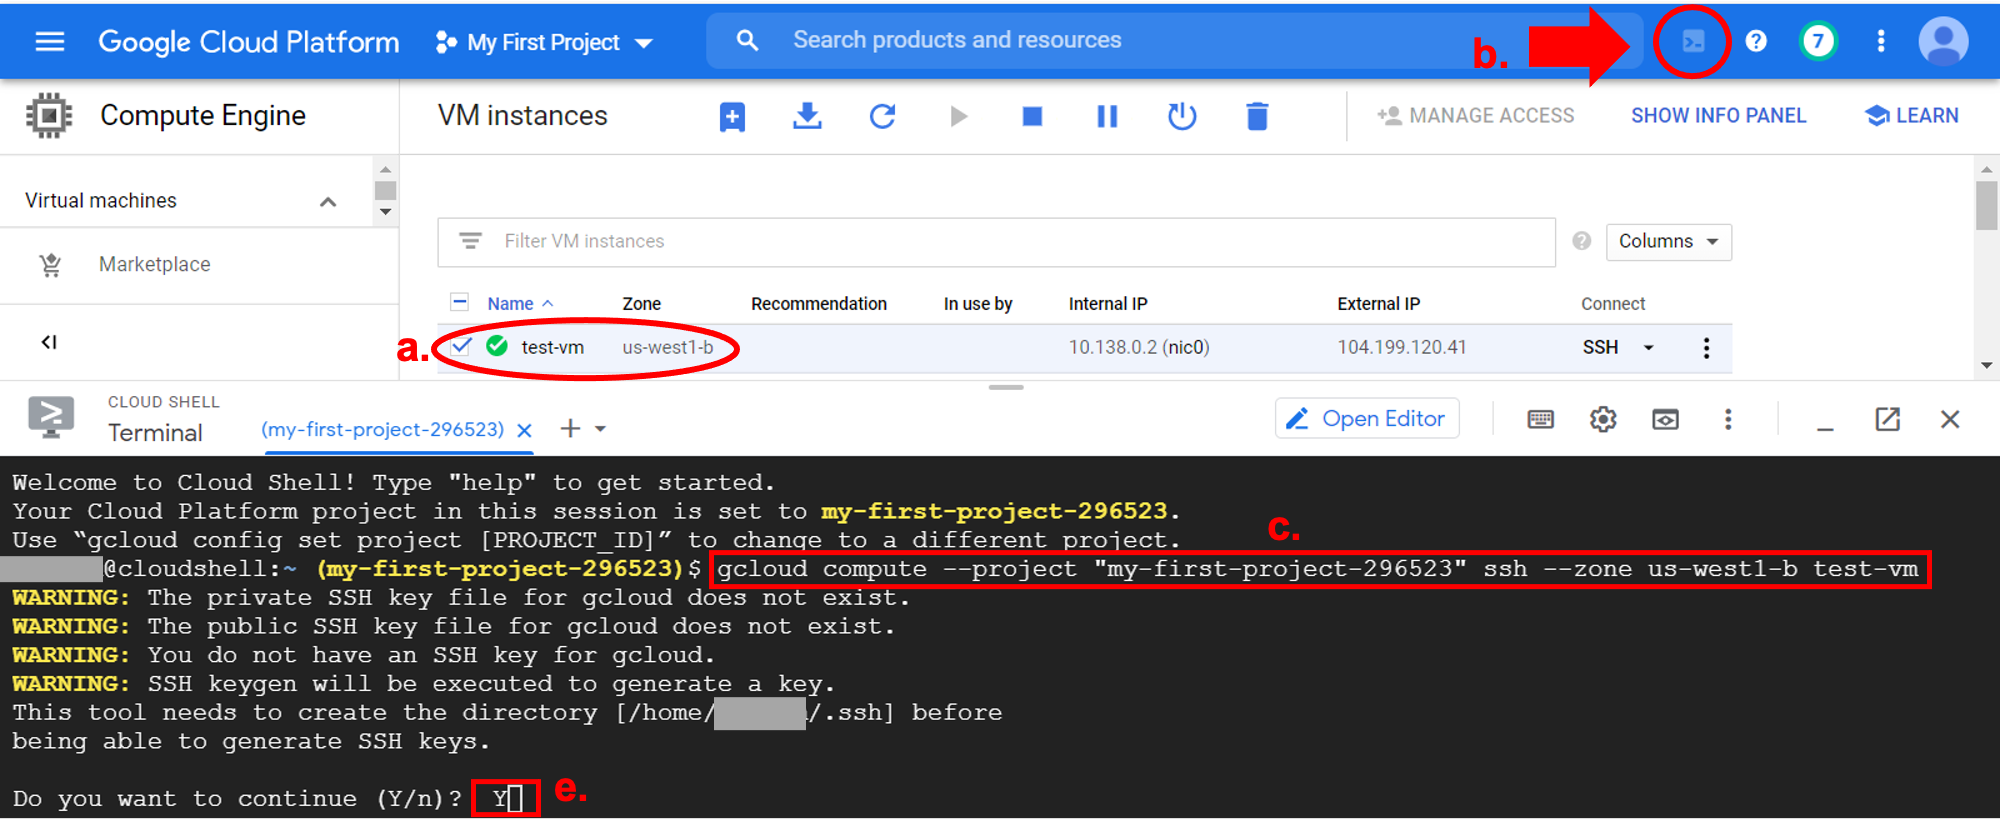
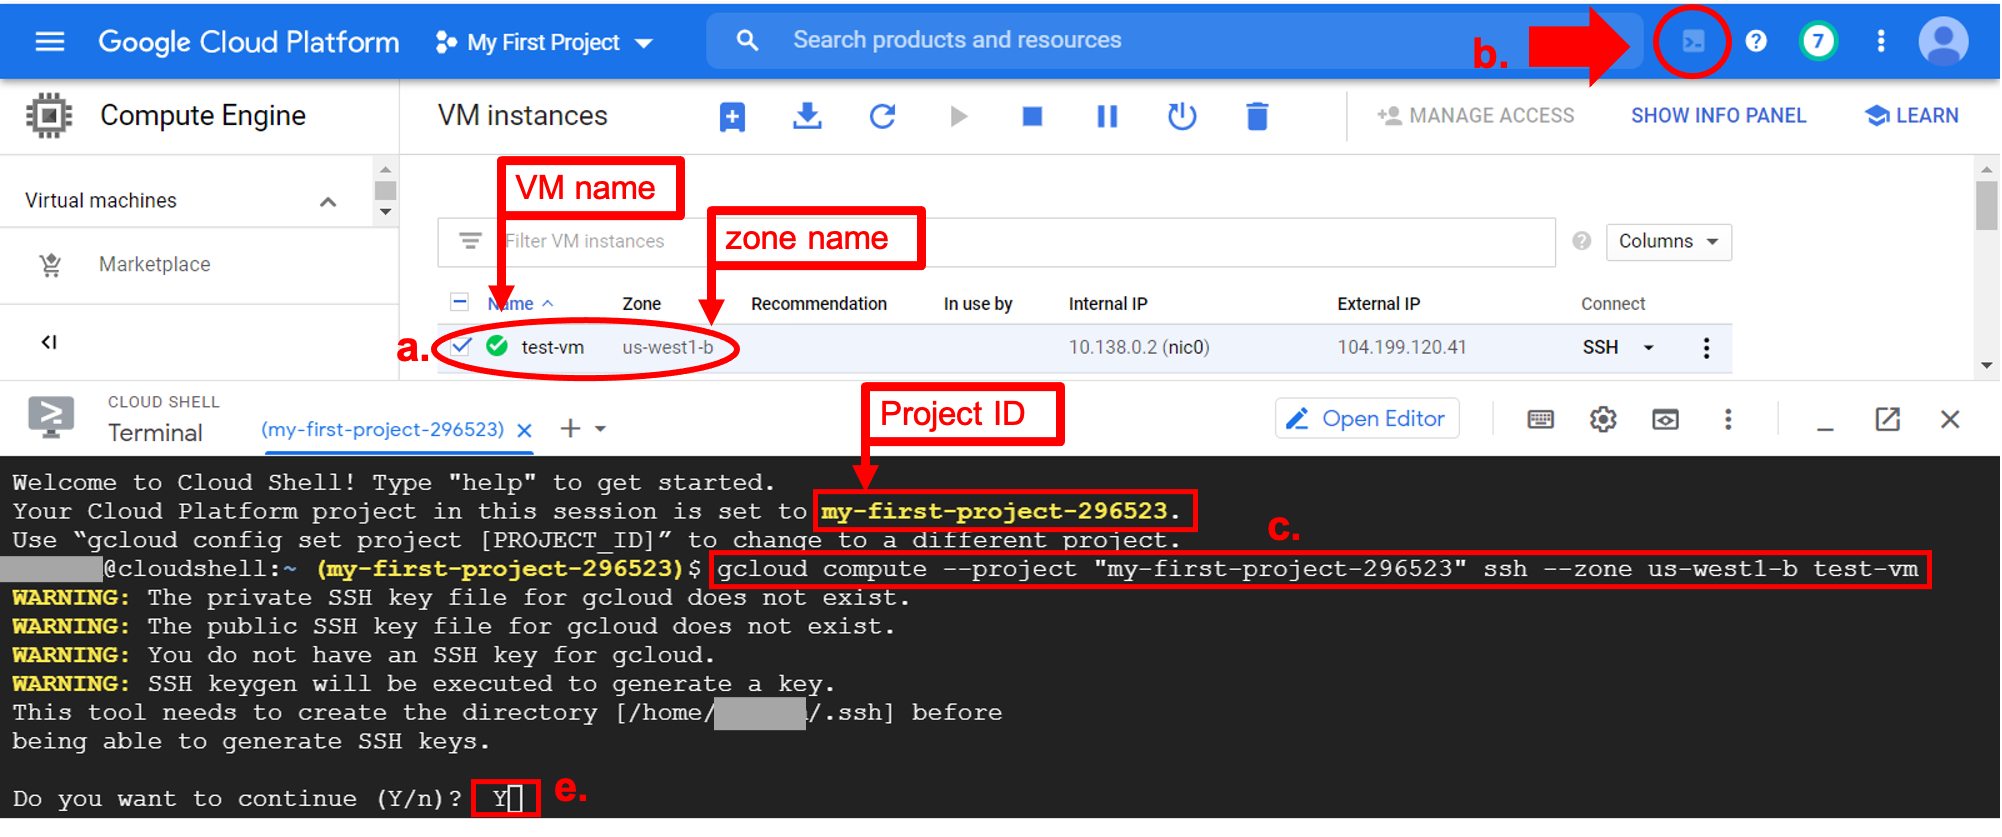
added vm controls about. edited google bucket command. more help on gcloud compute cmd

Changed region(s): [[0.4026, 0.4349, 0.5884, 0.6523], [0.2478, 0.1864, 0.4645, 0.3728]]

diff --git a/docs/Bioinformatics-Skills/Introduction-to-GCP/gcp2.md b/docs/Bioinformatics-Skills/Introduction-to-GCP/gcp2.md
@@ -12,7 +12,7 @@ In this section, we'll create a project, configure a GCP virtual machine (VM) in
 
 ![](./gcp_images/gcp_project2.png "Create Project button")
 
-- The new project is now listed in the table, along with a project ID. You'll need the project ID later to connect to a VM instance.
+- The new project is now listed in the table, along with a project ID. *You'll need the project ID later to connect to a VM instance.*
 
 ![](./gcp_images/gcp_projectid.png "Project ID")
 
@@ -28,13 +28,13 @@ In this section, we'll create a project, configure a GCP virtual machine (VM) in
 
 ![](./gcp_images/gcp_vmconfig1.png "VM configuration name and region")
 
-Names must be in lowercase letters or numbers. Use hyphens "-" instead of spaces. You'll need the VM name to connect to it.
+Names must be in lowercase letters or numbers. Use hyphens "-" instead of spaces. *You'll need the VM name to connect to it.*
 
 ### b. Choose a Region
 
 Several regions are available from the dropdown menu. In general, select the region closest to your physical geographic region.
 
-It is less important which zone you choose, and the interface automatically selects a zone based on the region you select. You'll need the zone name to connect to the VM. In this example, we selected the "us-west1 (Oregon)" region.
+It is less important which zone you choose, and the interface automatically selects a zone based on the region you select. *You'll need the zone name to connect to the VM.* In this example, we selected the "us-west1 (Oregon)" region.
 
 !!! note "Machine regions"
 
@@ -70,6 +70,38 @@ Check the box by "Allow HTTP traffic" under the Firewall configuration, which op
 
 When you're done configuring the VM, click "Create".
 
+The VM can be refreshed, start/resumed, stopped, suspended, reset, or deleted using the icons at the top of the page:
+
+![](./gcp_images/gcp_vm_runoptions.png "VM controls")
+
+=== "Refresh"
+
+    Refresh the instance. If your connection times out, there should be a "Reconnect" button in the Google Cloud Shell, otherwise you can try refreshing.
+
+=== "Reset"
+
+    "[Reset](https://cloud.google.com/compute/docs/instances/instance-life-cycle#resetting_an_instance) performs a hard reset on the instance, which wipes the memory contents of the machine and resets the virtual machine to its initial state."
+
+=== "Suspend"
+
+    [Suspending](https://cloud.google.com/compute/docs/instances/instance-life-cycle#suspending_an_instance) "the instance will preserve its running state, similar to closing a laptop. You'll be billed for storage of the suspended VM state and any persistent disks it uses."
+
+=== "Stop"
+
+    [Stopping](https://cloud.google.com/compute/docs/instances/instance-life-cycle#stopping_an_instance) the instance is similar to suspending it, but Google doesn't charge you for VM resources while it's stopped.
+
+=== "Start/Resume"
+
+    Start/resume a suspended or stopped instance to open it again.
+
+=== "Delete"
+
+    When you are completely finished working with the VM it can be deleted. This will remove all VM configurations and work you did in the VM.
+
+!!! tip
+
+    If you need to pause during this tutorial and want to save your VM instance and any work you did in the instance (e.g., files downloaded), **stop** the VM. You'll be able to start/resume the instance when you come back and all your work should still be there.
+
 ## Step 3: Connect to your VM
 
 ![](./gcp_images/gcp_vmGCS.png "VM connect with Google Cloud Shell")
@@ -86,11 +118,20 @@ The Google Cloud Shell command prompt format will show: `<username>@cloudshell:~
 
 ### c. Connect to VM
 
-Use the `gcloud compute` command to connect to your virtual machine (`gcloud` is a tool from the Google Cloud SDK toolkit). You'll need your project ID, zone, and instance name. In the example command below, the project ID is `"my-first-project-296523"`, the zone is `us-west1-b`, and the instance name is `test-vm`. The `ssh` flag indicates we are accessing the VM with ssh, which we'll set up below. Replace these values to run the command for your virtual machine:
+Use the `gcloud compute` command to connect to your virtual machine (`gcloud` is a tool from the Google Cloud SDK toolkit). You'll need your project ID, zone, and instance name. In the example command below, the project ID is `"my-first-project-296523"`, the zone is `us-west1-b`, and the instance name is `test-vm`. The `ssh` flag indicates we are accessing the VM with ssh, which we'll set up below. **Replace these values** to run the command for your virtual machine:
 
-```
-gcloud compute --project "my-first-project-296523" ssh --zone us-west1-b test-vm
-```
+=== "Input"
+
+    Usage:
+    ```
+    gcloud compute --project "<your project ID>" ssh --zone <your zone> <your VM name>
+    ```
+
+    Example:
+
+    ```
+    gcloud compute --project "my-first-project-296523" ssh --zone us-west1-b test-vm
+    ```
 
 ### d. Authorise Cloud Shell
 

diff --git a/docs/Bioinformatics-Skills/Introduction-to-GCP/gcp3.md b/docs/Bioinformatics-Skills/Introduction-to-GCP/gcp3.md
@@ -109,11 +109,20 @@ this configuration": enter ++2++ to "Log in with a new account"
 
 The `gcloud` configuration should now be complete. Run the following command to check:
 
-```
-gcloud config configurations list  
-```
+=== "Input"
 
-The output should list your GCP Google account email and project ID.
+    ```
+    gcloud config configurations list  
+    ```
+
+=== "Expected Output"
+
+    The output should list your GCP Google account email and project ID.
+
+    ```
+    NAME     IS_ACTIVE  ACCOUNT          PROJECT            COMPUTE_DEFAULT_ZONE  COMPUTE_DEFAULT_REGION
+    default  True       <your account email>  <your project name>
+    ```
 
 ## Step 6: Create Google Storage bucket
 
@@ -121,15 +130,51 @@ Files are stored in buckets in the Google Storage service. Buckets can be manage
 
 - Make a bucket by using the `gsutil mb` command. Google bucket paths always begin with "gs://". You must enter a unique name for your bucket (do not use spaces in the name).
 
-```
-gsutil mb gs://<your bucket name>
-```
+=== "Input"
+
+    Usage:
+    ```
+    gsutil mb gs://<your bucket name>
+    ```
+
+    Example:
+    ```
+    gsutil mb gs://forblast
+    ```
+
+=== "Expected Output"
+
+    ```
+    Creating gs://forblast/...
+    ```
 
 - Bucket names, particularly auto-generated names, can get very long and complicated. To make it easier to type, we can create an alias for the bucket.
 
-```
-export BUCKET="gs://<your bucket name>""
-```
+=== "Input"
+
+    Usage:
+    ```
+    export BUCKET="gs://<your bucket name>"
+    ```
+
+    Example:
+    ```
+    export BUCKET="gs://forblast"
+    ```
+
+=== "Expected Output"
+
+    There should be no output if alias assignment is successful. To check that the alias works, enter:
+
+    ```
+    echo $BUCKET
+    ```
+
+    The output for our example is:
+
+    ```
+    gs://forblast
+    ```
 
 ## Step 7: Copy file to bucket <a name="files-to-bucket"></a>
 
